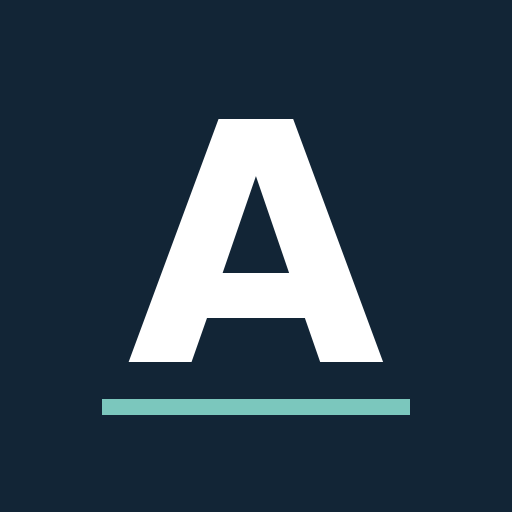
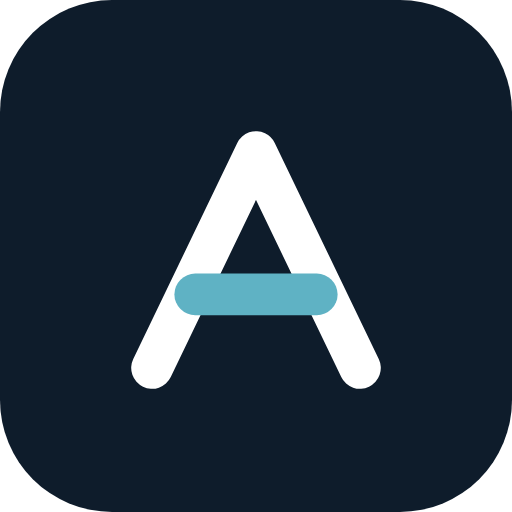
feat(product): intent-first intake, lifecycle homepage with real demo captures, named covenant detail
Intake by objective (Guideline v3.3 §35.10)
- lib/finance/intents.mjs: "what do you need to do?" intents that route to
  flows that already exist (credit/acquiring wizard with product preselected,
  renewal, compare, register existing contract/facility/institution, fees,
  obligations), filtered by role; ?acao= opens the destination form from a
  closed list (no selector taken from the URL).
- Home: a single primary "Começar" opens the intent panel.
- Tests: intents only target existing pages, viewers get no create actions,
  unknown actions do nothing (unit + E2E for manager and viewer).

Commercial site (§35.12)
- Homepage rewritten around the lifecycle: problem, how it works, after
  signature, bank relationship, governance, honest scope table, access.
- Captures come from the real product with fictitious Demo data and carry a
  "Demonstração" tag; scripts/design/capture-marketing.mjs only runs against
  the local Demo (or an explicit confirmation for the hosted Demo).
- Plataforma page describes the five areas; icons and OG image redrawn with
  the new monogram.

Covenant detail
- Contract and people shown by name (references read under the caller's
  JWT), waiver states in Portuguese and dates formatted; test refuses UUID and
  ISO timestamps in what the screen shows.

Claude-Session: https://claude.ai/code/session_01MPPscK4cGFiQ799HjCwixb

diff --git a/index.html b/index.html
@@ -1,9 +1,13 @@
 <!doctype html><html lang="pt-BR"><head><meta charset="utf-8"><meta name="viewport" content="width=device-width, initial-scale=1"><title>Arandu | Procurement financeiro B2B</title><meta name="description" content="Procurement financeiro B2B: crédito empresarial e adquirência, propostas comparáveis, decisão documentada e contratos acompanhados."><link rel="stylesheet" href="/finance/style.css"><link rel="stylesheet" href="/financial-public.css"></head><body class="public"><a class="skip-link" href="#main">Pular para o conteúdo</a><header class="public-header"><div class="wrap nav"><a class="public-brand" href="/"><svg class="brand-mark" viewBox="0 0 32 32" aria-hidden="true"><rect class="brand-mark-bg" width="32" height="32" rx="7"/><path class="brand-mark-a" d="M9.5 23 16 9.5 22.5 23"/><path class="brand-mark-bar" d="M12.2 18.4h7.6"/></svg> Arandu <small>Financial Procurement</small></a><nav aria-label="Navegação principal"><a href="/produto.html">Plataforma</a><a href="/credito.html">Crédito</a><a href="/adquirencia.html">Adquirência</a><a href="/seguranca.html">Segurança</a><a class="nav-cta" href="/login.html">Entrar</a></nav></div></header><div id="main"><main>
-<section class="hero wrap"><div><p class="eyebrow">ARANDU · FINANCIAL PROCUREMENT</p><h1>Contratações financeiras com processo, comparação e decisão documentada.</h1><p class="lead">Estruture demandas de crédito empresarial e adquirência, convide instituições, compare condições em uma base comum e acompanhe contratos em um único espaço de trabalho.</p><div class="actions"><a class="button" href="/login.html">Acessar plataforma <span aria-hidden="true">↗</span></a><a class="button ghost" href="#fluxo">Entender o processo</a></div><p class="fine">O Arandu organiza a contratação. A concessão, as condições e a decisão pertencem às instituições e à sua empresa.</p></div><div class="product-preview" aria-label="Resumo ilustrativo das etapas da plataforma"><div class="preview-head"><span>PROCESSO DE CONTRATAÇÃO</span><span>Crédito empresarial</span></div><ol><li><b>01 · Demanda estruturada</b><small>Produto, prazo e condições desejadas</small></li><li><b>02 · Convites e propostas</b><small>Respostas de instituições registradas por versão</small></li><li><b>03 · Comparação factual</b><small>Condições, cobertura e dados ausentes visíveis</small></li><li><b>04 · Decisão e contrato</b><small>Critérios da empresa e janela de renovação</small></li></ol><p class="preview-note">Esquema do fluxo · sem dados de clientes</p></div></section>
-<section class="section tint" id="produto"><div class="wrap"><p class="eyebrow">UM PROCESSO, DO INÍCIO À RENOVAÇÃO</p><h2>Menos informações dispersas. Mais clareza para contratar.</h2><div class="three"><article class="feature"><span>01</span><h3>Demanda consistente</h3><p>Um formato comum para descrever o que a empresa precisa, com dados do perfil financeiro reutilizáveis.</p></article><article class="feature"><span>02</span><h3>Propostas comparáveis</h3><p>Convites direcionados, versões preservadas e condições lado a lado. Lacunas de informação ficam explícitas.</p></article><article class="feature"><span>03</span><h3>Decisão rastreável</h3><p>A empresa define pesos e registra a justificativa. Contratos e datas de renovação continuam visíveis.</p></article></div></div></section>
-<section class="section wrap" id="fluxo"><div class="split"><div><p class="eyebrow">PARA A EMPRESA COMPRADORA</p><h2>Do pedido à decisão, sem perder o histórico.</h2><p>Abra uma solicitação, convide provedores, acompanhe respostas e compare o que foi efetivamente informado. Registre sua escolha com autoria, critérios e versões das propostas.</p><a class="text-link" href="/produto.html">Conheça o espaço de trabalho →</a></div><div><p class="eyebrow">PARA A INSTITUIÇÃO PROVEDORA</p><h2>Um convite claro. Uma resposta no seu próprio portal.</h2><p>Veja apenas as solicitações atribuídas à sua instituição, o prazo, os dados necessários para cotar e o histórico das suas revisões.</p><a class="text-link" href="/provider/index.html">Acessar portal do provedor →</a></div></div></section>
-<section class="section tint" id="produtos"><div class="wrap"><p class="eyebrow">ESCOPO INICIAL</p><h2>Dois produtos. Fluxos próprios para cada um.</h2><div class="two"><article class="feature"><h3>Crédito empresarial</h3><p>Estruture valor, prazo e condições da demanda. Compare somente campos disponíveis e estimativas matematicamente suportadas.</p><a class="text-link" href="/credito.html">Como funciona crédito →</a></article><article class="feature"><h3>Adquirência</h3><p>Organize necessidades de aceitação de pagamentos e compare taxas, prazos e demais condições recebidas.</p><a class="text-link" href="/adquirencia.html">Como funciona adquirência →</a></article></div></div></section>
-<section class="section wrap"><div class="split"><div><p class="eyebrow">GOVERNANÇA</p><h2>Comparação factual, com a decisão nas mãos da empresa.</h2><p>Pesos são definidos pelo usuário. Empates, baixa cobertura e campos não informados ficam identificados. O Arandu não escolhe a proposta pela empresa.</p></div><div><p class="eyebrow">SEGURANÇA E PRIVACIDADE</p><h2>Informação acessível conforme o papel.</h2><p>O provedor vê suas solicitações e propostas; não vê concorrentes, notas internas nem critérios reservados do comprador. Autenticação, controles de acesso e trilha de eventos fazem parte do fluxo.</p><a class="text-link" href="/seguranca.html">Segurança e privacidade →</a></div></div></section>
-<section class="section dark"><div class="wrap split"><div><p class="eyebrow">ACESSO AO PILOTO</p><h2>Organize sua próxima contratação financeira.</h2><p>O produto está em preparação para um piloto com empresas e provedores selecionados.</p></div><div class="actions"><a class="button light" href="/login.html">Entrar na plataforma</a><a class="button outline" href="/limites.html">Conhecer o escopo do piloto</a></div></div></section>
+<section class="hero hero-product wrap"><div><p class="eyebrow">PROCUREMENT FINANCEIRO B2B</p><h1>Contratações financeiras, do pedido à renovação.</h1><p class="lead">O Arandu organiza como a sua empresa contrata e acompanha crédito empresarial e adquirência: propostas comparáveis, decisão documentada e contratos que avisam antes de vencer — num espaço compartilhado com as instituições, cada uma vendo só o que é dela.</p><div class="actions"><a class="button" href="/login.html">Acessar plataforma <span aria-hidden="true">↗</span></a><a class="button ghost" href="#fluxo">Entender o processo</a></div><p class="fine">O Arandu não concede crédito, não intermedeia e não escolhe por você. Condições são das instituições; a decisão é da sua empresa.</p></div>
+<figure class="shot shot-hero"><img src="/site/workspace.webp" width="1132" height="490" alt="Tela Início do Arandu com a lista Precisa de você: obrigação vencida, decisão de renovação com prazo de aviso prévio, tarefas e rascunho de solicitação." fetchpriority="high"><figcaption>Início: o que precisa de você, por quê e até quando. <span class="shot-tag">Demonstração · empresa e instituições fictícias</span></figcaption></figure></section>
+<section class="section tint" id="problema"><div class="wrap split"><div><p class="eyebrow">O PROBLEMA</p><h2>O financeiro corporativo contrata com e-mail, planilha e memória.</h2></div><ul class="problem-list"><li><strong>Propostas que não se comparam.</strong> Cada instituição responde num formato; taxa, CET, tarifas e garantias chegam incompletas e misturadas.</li><li><strong>Decisões sem registro.</strong> Quem escolheu, com quais critérios e diante de quais versões das propostas fica espalhado em mensagens.</li><li><strong>Contratos que somem depois da assinatura.</strong> A janela de renovação, os covenants e as tarifas cobradas só voltam a ser vistos quando já viraram urgência.</li></ul></div></section>
+<section class="section wrap" id="fluxo"><p class="eyebrow">COMO FUNCIONA</p><h2>Um processo só, com a mesma base para todas as instituições.</h2><ol class="steps"><li><span>01</span><h3>Pedido estruturado</h3><p>Crédito empresarial e adquirência em campos padronizados, com dados do perfil financeiro reutilizados e a origem de cada um.</p></li><li><span>02</span><h3>Convites e propostas</h3><p>Cada instituição responde no próprio portal. Versões e revisões ficam preservadas.</p></li><li><span>03</span><h3>Comparação factual</h3><p>Condições lado a lado, campos não informados à vista e pesos definidos pela sua empresa — sem ranking pronto.</p></li><li><span>04</span><h3>Aprovação e decisão</h3><p>Etapas de aprovação com segregação de funções; a decisão fica registrada com autor, critérios e justificativa.</p></li></ol>
+<figure class="shot"><img src="/site/comparison.webp" width="1132" height="1134" loading="lazy" alt="Comparação factual de duas propostas de crédito: valor, prazo, carência, amortização, taxa, indexador, spread, CET, tarifas e garantias lado a lado, com campos não informados indicados e pesos opcionais definidos pela empresa."><figcaption>Comparação: o maior e o menor valor informados são marcados de forma neutra; nada é chamado de melhor. <span class="shot-tag">Demonstração · empresa e instituições fictícias</span></figcaption></figure></section>
+<section class="section tint" id="ciclo"><div class="wrap split split-media"><div><p class="eyebrow">DEPOIS DA ASSINATURA</p><h2>O contrato continua trabalhando.</h2><ul class="check-list"><li>Marcos de renovação de 180 a 7 dias antes do vencimento, com tarefa e aviso.</li><li>Termos estruturados, aditivos versionados e marcos próprios.</li><li>Tarifa contratada comparada à cobrada, com fonte e revisão humana.</li><li>Covenants e obrigações com medição, prazo e evidência.</li><li>Valor realizado separado de negociado, sempre com metodologia.</li></ul><p><a class="text-link" href="/produto.html">Conheça a plataforma →</a></p></div><figure class="shot"><img src="/site/contract.webp" width="1132" height="632" loading="lazy" alt="Contrato de crédito com linha do tempo de vigência, marcos de 90, 60 e 30 dias, aviso prévio e vencimento, e a próxima ação: janela de renovação aberta com prazo para decidir."><figcaption>Contrato: a próxima ação aparece antes do aviso prévio. <span class="shot-tag">Demonstração · empresa e instituições fictícias</span></figcaption></figure></div></section>
+<section class="section wrap" id="relacionamento"><div class="two"><div><p class="eyebrow">RELACIONAMENTO BANCÁRIO</p><h2>Cada instituição com o histórico que ela tem com você.</h2><p>Contratos, facilities, limites, garantias, tarifas, processos e performance registrados com fonte — a memória institucional não depende de quem saiu da empresa.</p></div><div><p class="eyebrow">PARA A INSTITUIÇÃO</p><h2>Um convite claro. Uma resposta no próprio portal.</h2><p>A instituição vê só as solicitações atribuídas a ela, o prazo e os dados para cotar. Nunca vê concorrentes, notas internas ou critérios reservados do comprador.</p><p><a class="text-link" href="/provider/index.html">Acessar portal do provedor →</a></p></div></div></section>
+<section class="section tint" id="governanca"><div class="wrap two"><div><p class="eyebrow">GOVERNANÇA</p><h2>A decisão é da sua empresa. Sempre.</h2><p>Pesos são definidos por quem decide. Empates, baixa cobertura e campos não informados ficam identificados. Quem pede não aprova a própria solicitação.</p><p><a class="text-link" href="/limites.html">O que o Arandu não faz →</a></p></div><div><p class="eyebrow">SEGURANÇA E PRIVACIDADE</p><h2>Informação acessível conforme o papel.</h2><p>Isolamento por empresa e por entidade legal, autenticação, MFA para operação da plataforma e trilha de eventos fazem parte do fluxo.</p><p><a class="text-link" href="/seguranca.html">Segurança e privacidade →</a></p></div></div></section>
+<section class="section wrap" id="escopo"><p class="eyebrow">ESCOPO DISPONÍVEL</p><h2>O que existe hoje, sem exagero.</h2><table class="scope"><thead><tr><th scope="col">Capacidade</th><th scope="col">Situação</th></tr></thead><tbody><tr><td>Solicitações, propostas, comparação, aprovação e decisão — crédito empresarial e adquirência</td><td>No produto, em preparação para piloto</td></tr><tr><td>Contratos, renovação, portfólio de dívida e limites, tarifas, covenants, valor</td><td>No produto, em preparação para piloto</td></tr><tr><td>Leitura de documentos com confirmação humana</td><td>Base pronta; sem modelo externo de IA configurado</td></tr><tr><td>Conexões bancárias, Open Finance e ERP</td><td>Não disponível</td></tr><tr><td>Benchmark de mercado</td><td>Não oferecido</td></tr></tbody></table><p class="fine">O Arandu não alega certificação, SLA ou prontidão de produção sem evidência. <a class="text-link" href="/limites.html">Limites do produto →</a></p></section>
+<section class="section dark" id="acesso"><div class="wrap split"><div><p class="eyebrow">ACESSO AO PILOTO</p><h2>Organize sua próxima contratação financeira.</h2><p>O acesso está sendo preparado para um piloto com empresas e instituições convidadas.</p></div><div class="actions"><a class="button light" href="/login.html">Entrar na plataforma</a><a class="button outline" href="/limites.html">Conhecer o escopo do piloto</a></div></div></section>
 <section class="section wrap" id="faq"><p class="eyebrow">PERGUNTAS FREQUENTES</p><h2>Antes de começar</h2><div class="faq"><details><summary>O Arandu concede crédito ou garante aprovação?</summary><p>Não. Instituições financeiras respondem às solicitações e decidem suas próprias condições e aprovações.</p></details><details><summary>O Arandu recomenda uma proposta?</summary><p>Não. A comparação apresenta dados recebidos; os pesos e a decisão são definidos e registrados pela empresa.</p></details><details><summary>Quais produtos estão disponíveis?</summary><p>O escopo inicial contempla crédito empresarial e adquirência.</p></details><details><summary>Os provedores veem as propostas dos concorrentes?</summary><p>Não. Cada instituição acessa somente suas solicitações e propostas atribuídas.</p></details><details><summary>O produto já está aberto a todas as empresas?</summary><p>O acesso está sendo preparado para um piloto. A disponibilidade depende da configuração do ambiente e dos convites.</p></details></div><p><a class="text-link" href="/limites.html">Leia os limites do produto →</a></p></section>
 </main></div><footer class="public-footer"><div class="wrap"><strong>Arandu · Financial Procurement</strong><p>Procurement financeiro B2B. O Arandu não concede crédito nem decide pela empresa.</p><nav aria-label="Links institucionais"><a href="/limites.html">Limites</a><a href="/seguranca.html">Segurança</a><a href="/provider/index.html">Portal do provedor</a></nav></div></footer></body></html>

diff --git a/produto.html b/produto.html
@@ -1,1 +1,8 @@
-<!doctype html><html lang="pt-BR"><head><meta charset="utf-8"><meta name="viewport" content="width=device-width, initial-scale=1"><title>Plataforma | Arandu</title><meta name="description" content="Arandu: plataforma B2B para estruturar demandas, comparar propostas financeiras e documentar decisões."><link rel="stylesheet" href="/finance/style.css"><link rel="stylesheet" href="/financial-public.css"></head><body class="public"><a class="skip-link" href="#main">Pular para o conteúdo</a><header class="public-header"><div class="wrap nav"><a class="public-brand" href="/"><svg class="brand-mark" viewBox="0 0 32 32" aria-hidden="true"><rect class="brand-mark-bg" width="32" height="32" rx="7"/><path class="brand-mark-a" d="M9.5 23 16 9.5 22.5 23"/><path class="brand-mark-bar" d="M12.2 18.4h7.6"/></svg> Arandu <small>Financial Procurement</small></a><nav aria-label="Navegação principal"><a href="/produto.html">Plataforma</a><a href="/credito.html">Crédito</a><a href="/adquirencia.html">Adquirência</a><a href="/seguranca.html">Segurança</a><a class="nav-cta" href="/login.html">Entrar</a></nav></div></header><div id="main"><main class="section wrap"><p class="eyebrow">PLATAFORMA</p><h1>Um espaço de trabalho para todo o processo.</h1><p class="lead">Dados da organização, solicitações, provedores, propostas, comparação, decisão e contratos ficam ligados ao mesmo processo.</p><div class="three"><article class="feature"><h2>1. Prepare</h2><p>Cadastre a organização e o perfil financeiro, depois abra uma solicitação de crédito ou adquirência.</p></article><article class="feature"><h2>2. Colete</h2><p>Convide instituições e acompanhe respostas e revisões sem perder versões anteriores.</p></article><article class="feature"><h2>3. Decida</h2><p>Compare campos recebidos, escolha critérios, registre a decisão e acompanhe a vigência do contrato.</p></article></div><p><a class="button" href="/login.html">Entrar no workspace</a></p></main></div><footer class="public-footer"><div class="wrap"><strong>Arandu · Financial Procurement</strong><p>Procurement financeiro B2B. O Arandu não é o concedente nem decide pela empresa.</p><nav aria-label="Links institucionais"><a href="/limites.html">Limites</a><a href="/seguranca.html">Segurança</a><a href="/provider/index.html">Portal do provedor</a></nav></div></footer></body></html>
+<!doctype html><html lang="pt-BR"><head><meta charset="utf-8"><meta name="viewport" content="width=device-width, initial-scale=1"><title>Plataforma | Arandu</title><meta name="description" content="Arandu: plataforma B2B para estruturar demandas, comparar propostas financeiras e documentar decisões."><link rel="stylesheet" href="/finance/style.css"><link rel="stylesheet" href="/financial-public.css"></head><body class="public"><a class="skip-link" href="#main">Pular para o conteúdo</a><header class="public-header"><div class="wrap nav"><a class="public-brand" href="/"><svg class="brand-mark" viewBox="0 0 32 32" aria-hidden="true"><rect class="brand-mark-bg" width="32" height="32" rx="7"/><path class="brand-mark-a" d="M9.5 23 16 9.5 22.5 23"/><path class="brand-mark-bar" d="M12.2 18.4h7.6"/></svg> Arandu <small>Financial Procurement</small></a><nav aria-label="Navegação principal"><a href="/produto.html">Plataforma</a><a href="/credito.html">Crédito</a><a href="/adquirencia.html">Adquirência</a><a href="/seguranca.html">Segurança</a><a class="nav-cta" href="/login.html">Entrar</a></nav></div></header><div id="main"><main class="section wrap"><p class="eyebrow">PLATAFORMA</p><h1>Um espaço de trabalho para todo o processo.</h1><p class="lead">O Arandu se organiza pelo que a equipe financeira precisa fazer — não pelos módulos do sistema. Cinco áreas, com as mesmas pessoas, objetos e histórico.</p>
+<ol class="areas"><li><h2>Meu trabalho</h2><p>Pendências, aprovações, tarefas e prazos em ordem de urgência, cada uma com o motivo e a próxima ação.</p></li>
+<li><h2>Contratações</h2><p>Solicitações de crédito empresarial e adquirência, convites, propostas versionadas, comparação factual, aprovação, decisão e implantação.</p></li>
+<li><h2>Portfólio financeiro</h2><p>Contratos e renovações, dívida e limites, garantias, covenants e obrigações, tarifas bancárias, spend, valor realizado e oportunidades.</p></li>
+<li><h2>Relacionamentos</h2><p>Instituições com contatos, histórico, qualificação e performance registrados com fonte.</p></li>
+<li><h2>Governança</h2><p>Perfil financeiro com a origem de cada dado, entidades legais, pessoas e papéis, políticas de aprovação, integrações e retenção.</p></li></ol>
+<p class="fine">Escopo atual em preparação para piloto. O Arandu não é o concedente nem decide pela empresa.</p>
+<p><a class="button" href="/login.html">Entrar no workspace</a></p></main></div><footer class="public-footer"><div class="wrap"><strong>Arandu · Financial Procurement</strong><p>Procurement financeiro B2B. O Arandu não é o concedente nem decide pela empresa.</p><nav aria-label="Links institucionais"><a href="/limites.html">Limites</a><a href="/seguranca.html">Segurança</a><a href="/provider/index.html">Portal do provedor</a></nav></div></footer></body></html>

diff --git a/tests/e2e/finance-procurement.spec.js b/tests/e2e/finance-procurement.spec.js
@@ -50,7 +50,7 @@ function overview(extra = {}) {
   };
 }
 /** Sessão simulada: responde as rotas que a interface usa. */
-async function mockSession(page, { organizations = [{ id: ORG, kind: 'BUYER', legal_name: 'Empresa de teste' }], data = overview(), editor = {}, onSearch = null, onDocuments = null } = {}) {
+async function mockSession(page, { organizations = [{ id: ORG, kind: 'BUYER', legal_name: 'Empresa de teste' }], data = overview(), editor = {}, onSearch = null, onDocuments = null, viewerRole = 'finance_manager' } = {}) {
   const calls = [];
   await page.route('**/api/finance/**', (route) => {
     const request = route.request();
@@ -60,7 +60,7 @@ async function mockSession(page, { organizations = [{ id: ORG, kind: 'BUYER', le
     const json = (body, status = 200) => route.fulfill({ status, contentType: 'application/json', body: JSON.stringify(body) });
     if (path === 'organizations') return json({ ok: true, rows: organizations });
     if (path === 'overview') return json(data);
-    if (path === 'members') return json({ ok: true, rows: [{ user_id: 'u1', role: 'finance_manager', display_name: 'Paula Nogueira', title: 'Gerente Financeira' }, { user_id: 'u2', role: 'analyst', display_name: 'Rui Tavares', title: 'Analista de Crédito' }], viewer_id: 'u1' });
+    if (path === 'members') return json({ ok: true, rows: [{ user_id: 'u1', role: viewerRole, display_name: 'Paula Nogueira', title: 'Gerente Financeira' }, { user_id: 'u2', role: 'analyst', display_name: 'Rui Tavares', title: 'Analista de Crédito' }], viewer_id: 'u1' });
     if (path.startsWith('private-documents') || path.startsWith('ops/')) return onDocuments ? onDocuments(path, request, json) : json({ ok: true, rows: [] });
     if (path === 'search') { onSearch?.(url); return json({ ok: true, rows: [{ kind: 'rfq', id: RFQ, title: 'Crédito expansão', detail: 'comparing', href: `/finance/rfq.html?id=${RFQ}` }] }); }
     if (path === 'rfq-editor' && request.method() === 'GET') return json({ ok: true, draft: editor.draft || null });
@@ -247,6 +247,38 @@ test('o assistente avança por etapas, valida em linha e salva o rascunho no ser
   await expect(page.getByRole('button', { name: 'Voltar' })).toBeVisible();
   const stored = await page.evaluate(() => Object.keys(localStorage));
   expect(stored, 'rascunho real nunca vai ao navegador').toEqual([]);
+});
+
+test('entrada por objetivo leva ao fluxo existente e só oferece o que o papel permite', async ({ page }) => {
+  await mockSession(page);
+  await page.goto('/finance/dashboard.html');
+  await page.getByRole('button', { name: 'Começar' }).click();
+  const panel = page.getByRole('dialog', { name: 'O que você precisa fazer?' });
+  await expect(panel.getByRole('heading', { name: 'Contratar' })).toBeVisible();
+  await expect(panel.getByRole('link', { name: /Registrar um contrato existente/ })).toHaveAttribute('href', /contracts\.html\?acao=registrar-contrato$/);
+  await panel.getByRole('link', { name: /Contratar crédito/ }).click();
+  await expect(page).toHaveURL(/new-rfq\.html\?product=credit$/);
+  await expect(page.locator('#product-credit')).toBeChecked();
+  // Ação pedida pela URL abre o formulário do fluxo de destino e sai da URL.
+  await page.goto('/finance/contracts.html?acao=registrar-contrato');
+  await expect(page.getByRole('dialog', { name: 'Registrar contrato existente' })).toBeVisible();
+  await expect(page).toHaveURL(/contracts\.html$/);
+  // Valor fora da lista fechada não aciona nada.
+  await page.goto('/finance/contracts.html?acao=logout');
+  await expect(page.getByRole('dialog')).toHaveCount(0);
+  expect(await page.evaluate(() => document.documentElement.scrollWidth - window.innerWidth)).toBeLessThanOrEqual(1);
+});
+
+test('leitor não recebe ações de criação na entrada por objetivo', async ({ page }) => {
+  await mockSession(page, { viewerRole: 'viewer' });
+  await page.goto('/finance/dashboard.html');
+  await page.getByRole('button', { name: 'Começar' }).click();
+  const panel = page.getByRole('dialog', { name: 'O que você precisa fazer?' });
+  await expect(panel.getByRole('link', { name: /Comparar propostas recebidas/ })).toBeVisible();
+  for (const name of [/Contratar crédito/, /Avaliar adquirência/, /Registrar um contrato existente/, /Cadastrar uma instituição/, /Registrar tarifa/]) await expect(panel.getByRole('link', { name })).toHaveCount(0);
+  // Sem permissão, a ação pedida pela URL não encontra botão e nada abre.
+  await page.goto('/finance/contracts.html?acao=registrar-contrato');
+  await expect(page.getByRole('dialog')).toHaveCount(0);
 });
 
 test('conflito de rascunho entre abas é explicado e para de salvar', async ({ page }) => {

diff --git a/financial-public.css b/financial-public.css
@@ -47,3 +47,35 @@ body.public{background:#fff;color:var(--navy);font-family:Inter,system-ui,-apple
 @media(max-width:900px){.public-brand small{display:none}.hero,.auth-grid{grid-template-columns:1fr}.hero{min-height:0}.product-preview{max-width:650px}}
 @media(max-width:700px){.public-header .nav{align-items:flex-start;flex-direction:column;padding-top:.8rem;padding-bottom:.8rem;gap:.5rem}.public-header nav{width:100%;overflow-x:auto;white-space:nowrap;padding-bottom:.2rem}.nav-cta{margin-left:auto}.three,.two,.split{grid-template-columns:1fr}.hero{padding-top:3rem;padding-bottom:3rem}.public h1{font-size:2.5rem}.auth-grid{padding-top:3rem;padding-bottom:4rem}}
 @media(prefers-reduced-motion:reduce){*,*::before,*::after{scroll-behavior:auto!important;animation-duration:.01ms!important}}
+/* Homepage v3.3: produto real em moldura, problema em lista, passos em linha e escopo honesto. */
+.hero-product{grid-template-columns:1fr;min-height:0;padding-top:4.5rem;padding-bottom:4.5rem;gap:2.5rem}
+.hero-product h1{max-width:20ch}
+.hero-product .lead{max-width:62ch}
+.shot-hero{max-width:1100px}
+.shot{margin:0;display:grid;gap:.6rem}
+.shot img{width:100%;height:auto;border:1px solid var(--line);border-radius:10px;background:#fff;box-shadow:0 18px 40px #0e1c2b14}
+.shot figcaption{font-size:.8rem;color:var(--muted);display:flex;flex-wrap:wrap;gap:.4rem .8rem;align-items:center}
+.shot-tag{display:inline-block;font-size:.7rem;font-weight:700;letter-spacing:.04em;color:#8f5200;background:#fff5e3;border:1px solid #f0d29a;border-radius:999px;padding:.1rem .55rem}
+#fluxo .shot{margin-top:2.5rem;max-width:880px}
+.problem-list,.check-list{list-style:none;margin:0;padding:0;display:grid;gap:1.1rem}
+.problem-list li{padding-left:1rem;border-left:2px solid var(--teal);color:var(--muted)}
+.problem-list strong{display:block;color:var(--navy);margin-bottom:.2rem}
+.check-list li{position:relative;padding-left:1.4rem;color:var(--navy)}
+.check-list li::before{content:"";position:absolute;left:0;top:.62em;width:.6rem;height:2px;background:var(--teal)}
+.steps{list-style:none;margin:1.5rem 0 0;padding:0;display:grid;grid-template-columns:repeat(4,minmax(0,1fr));gap:1.4rem;border-top:1px solid var(--line)}
+.steps li{padding-top:1.2rem}
+.steps span{font-weight:800;font-size:.75rem;color:var(--teal);letter-spacing:.08em}
+.steps p{color:var(--muted);font-size:.95rem}
+.split-media{align-items:center;grid-template-columns:.8fr 1.2fr}
+.scope{width:100%;max-width:880px;border-collapse:collapse;margin-top:1rem;font-size:.95rem}
+.scope th,.scope td{text-align:left;padding:.8rem .9rem;border-bottom:1px solid var(--line);vertical-align:top}
+.scope th{font-size:.75rem;letter-spacing:.06em;text-transform:uppercase;color:var(--muted)}
+.scope td:last-child{color:var(--muted);width:38%}
+@media(max-width:900px){.steps{grid-template-columns:repeat(2,minmax(0,1fr))}}
+@media(max-width:700px){.steps{grid-template-columns:1fr}.scope td:last-child{width:auto}.split-media{grid-template-columns:1fr}}
+.areas{list-style:none;counter-reset:area;margin:2rem 0;padding:0;display:grid;gap:0;border-top:1px solid var(--line);max-width:900px}
+.areas li{counter-increment:area;display:grid;grid-template-columns:3rem 14rem 1fr;gap:1rem;align-items:baseline;padding:1.1rem 0;border-bottom:1px solid var(--line)}
+.areas li::before{content:counter(area,decimal-leading-zero);font-weight:800;font-size:.75rem;color:var(--teal);letter-spacing:.08em}
+.areas h2{font-family:inherit;font-size:1.05rem;margin:0;max-width:none;letter-spacing:0}
+.areas p{margin:0;color:var(--muted)}
+@media(max-width:700px){.areas li{grid-template-columns:2.2rem 1fr}.areas p{grid-column:2}}

diff --git a/finance/src/views/intake.js b/finance/src/views/intake.js
@@ -1,0 +1,29 @@
+// Entrada por objetivo (Guideline v3.3 §35.10): "O que você precisa fazer?"
+// leva ao fluxo existente certo. A lista vem de lib/finance/intents.mjs e só
+// mostra o que o papel de quem usa permite executar.
+import { el, icon } from '../core.js';
+import { button, drawer } from '../ui.js';
+import { intentsFor } from '../../../lib/finance/intents.mjs';
+
+export function startButton(ctx) {
+  const intents = intentsFor((permission) => ctx.can(permission));
+  if (!intents.length) return null;
+  return button('Começar', { variant: 'primary', iconName: 'plus', attrs: { id: 'start-intent', 'aria-haspopup': 'dialog' }, onClick: () => openIntents(ctx, intents) });
+}
+
+function openIntents(ctx, intents) {
+  const body = el('div', { class: 'intent-groups' });
+  for (const group of [...new Set(intents.map((intent) => intent.group))]) {
+    const id = `intent-group-${group.normalize('NFD').replace(/[^a-z]/gi, '').toLowerCase()}`;
+    body.append(el('section', { class: 'intent-group', 'aria-labelledby': id }, [
+      el('h3', { class: 'intent-group-title', id, text: group }),
+      el('ul', { role: 'list', class: 'intent-list' }, intents.filter((intent) => intent.group === group).map((intent) => el('li', {},
+        el('a', { class: 'intent-link', href: ctx.href(intent.path), dataset: { intent: intent.key } }, [
+          el('span', { class: 'intent-icon' }, icon(intent.icon, { size: 18 })),
+          el('span', { class: 'intent-text' }, [el('span', { class: 'intent-label', text: intent.label }), el('span', { class: 'intent-detail', text: intent.detail })]),
+          icon('chevronRight', { size: 16 })
+        ]))))
+    ]));
+  }
+  drawer({ title: 'O que você precisa fazer?', subtitle: 'Cada caminho leva ao fluxo certo e reaproveita o que a empresa já cadastrou.', body, className: 'intent-drawer' });
+}

diff --git a/finance/style.css b/finance/style.css
@@ -502,6 +502,18 @@ a.mini-title:hover{color:var(--accent-text)}
 .exec-line{overflow-wrap:anywhere}
 @media (max-width:759px){.exec-filters{grid-template-columns:1fr}}
 
+/* Entrada por objetivo (painel "O que você precisa fazer?"). */
+.intent-groups{display:grid;gap:var(--s5)}
+.intent-group-title{font-size:11px;font-weight:650;letter-spacing:.06em;text-transform:uppercase;color:var(--text-muted);margin-bottom:var(--s2)}
+.intent-list{list-style:none;margin:0;padding:0;display:grid;gap:var(--s2)}
+.intent-link{display:flex;align-items:center;gap:var(--s3);padding:var(--s3);border:1px solid var(--border);border-radius:var(--r-md);color:var(--text);text-decoration:none;background:var(--surface)}
+.intent-link:hover{border-color:var(--petrol-line);background:var(--petrol-weak)}
+.intent-link:focus-visible{outline:none;box-shadow:var(--focus-ring)}
+.intent-icon{display:grid;place-items:center;width:34px;height:34px;border-radius:var(--r-md);background:var(--petrol-weak);color:var(--accent-text);flex:none}
+.intent-text{display:grid;flex:1;min-width:0;line-height:1.3}
+.intent-label{font-weight:600}
+.intent-detail{font-size:var(--fs-sm);color:var(--text-muted)}
+
 /* ---------------------------------------------------------------- RFQ */
 .lifecycle{list-style:none;margin:0 0 var(--s5);padding:0;display:flex;gap:4px;overflow-x:auto}
 .lifecycle-step{flex:1 1 0;min-width:88px;display:flex;align-items:center;gap:6px;padding:8px 10px;border-radius:var(--r-md);background:var(--surface);border:1px solid var(--border);font-size:var(--fs-sm);color:var(--text-muted)}

diff --git a/finance/app.js b/finance/app.js
@@ -15,6 +15,7 @@ import { el, icon, ROLE_LABELS, needsRenewalAttention } from './src/core.js';
 import { emptyState, linkButton, errorState, loading, toast } from './src/ui.js';
 import { renderSidebar, renderTopbar, renderMobileNav, renderDemoBanner, installCommandCenter, installNotificationCenter } from './src/shell.js';
 import { locate } from '../lib/finance/navigation.mjs';
+import { requestedAction } from '../lib/finance/intents.mjs';
 /* global __ARANDU_DEMO__ */
 const DEMO_BUILD = typeof __ARANDU_DEMO__ !== 'undefined' && __ARANDU_DEMO__ === true;
 
@@ -338,6 +339,18 @@ async function render({ refresh = false, rebuildShell = false } = {}) {
   root.setAttribute('aria-busy', 'false');
   workspace?.afterRender(ctx, { failure });
   focusDeepLink();
+  openRequestedAction();
+}
+
+// Intake por objetivo: `?acao=` abre o formulário do fluxo de destino uma vez
+// (lista fechada em lib/finance/intents.mjs; sem botão — sem permissão — nada acontece).
+function openRequestedAction() {
+  const action = requestedAction(location.search);
+  if (!action) return;
+  const url = new URL(location.href);
+  url.searchParams.delete('acao');
+  history.replaceState(null, '', url.pathname + url.search + url.hash);
+  document.querySelector(`[data-intent="${action}"]`)?.click();
 }
 
 // Link direto para um item (busca, notificação, e-mail): leva o foco até ele,

diff --git a/finance/src/views/dashboard.js b/finance/src/views/dashboard.js
@@ -4,6 +4,7 @@ import { el, icon, daysUntil, relativeDays, formatDate, formatDateTime, productL
 import { card, pill, linkButton, emptyState, person, progress, button, toast } from '../ui.js';
 import { memberName, currentStep, approvalSummaryLine, eventTitle } from './shared.js';
 import { loadEntities, entitySummaryCard } from './entities.js';
+import { startButton } from './intake.js';
 
 const PIPELINE = [['draft', 'Rascunho'], ['open', 'Aberta'], ['collecting', 'Em coleta'], ['comparing', 'Em avaliação'], ['decided', 'Decidida'], ['contracted', 'Contratada']];
 
@@ -114,7 +115,8 @@ export async function dashboard(ctx) {
   ctx.header({
     title: 'Painel',
     subtitle: `${greeting(ctx.viewer?.name)} · ${ctx.organization.legal_name}`,
-    actions: ctx.can('create_rfq') ? [linkButton('Nova solicitação', ctx.href('/finance/new-rfq.html'), { variant: 'primary', iconName: 'plus' })] : []
+    // Entrada por objetivo: um único primário; cada intenção leva ao fluxo existente.
+    actions: [startButton(ctx)].filter(Boolean)
   });
   const approvals = await ctx.loadApprovals();
   const items = actionItems(ctx, approvals);

diff --git a/finance/src/views/company.js b/finance/src/views/company.js
@@ -233,7 +233,7 @@ export async function providers(ctx) {
   const relationshipEnabled = (await loadEntities(ctx)).available;
   if (relationshipEnabled) await need('relationship');
   const manage = ctx.can('create_rfq');
-  const add = manage ? button('Cadastrar provedor', { variant: 'primary', iconName: 'plus', onClick: () => providerDrawer(ctx) }) : null;
+  const add = manage ? button('Cadastrar provedor', { variant: 'primary', iconName: 'plus', attrs: { 'data-intent': 'cadastrar-instituicao' }, onClick: () => providerDrawer(ctx) }) : null;
   ctx.header({ title: 'Provedores', subtitle: 'Bancos, fintechs e adquirentes com quem a empresa cota. É um cadastro da empresa, não uma atestação.', actions: add ? [add] : [] });
   if (!rows.length) return emptyState({ title: 'Nenhum provedor cadastrado', text: 'Cadastre ao menos três instituições para ter o que comparar.', iconName: 'building', action: add ? button('Cadastrar o primeiro provedor', { variant: 'primary', iconName: 'plus', onClick: () => providerDrawer(ctx) }) : null });
   const participation = new Map();

diff --git a/finance/src/views/portfolio.js b/finance/src/views/portfolio.js
@@ -63,7 +63,7 @@ export async function portfolio(ctx) {
   const entities = await loadEntities(ctx);
   const manage = ctx.can('edit_profile');
   const context = entityContextSelect(entities, { onChange: () => ctx.rerender() });
-  const add = manage ? button('Registrar facility', { variant: 'primary', iconName: 'plus', onClick: () => facilityForm(ctx, entities) }) : null;
+  const add = manage ? button('Registrar facility', { variant: 'primary', iconName: 'plus', attrs: { 'data-intent': 'registrar-facility' }, onClick: () => facilityForm(ctx, entities) }) : null;
   const addGuarantee = manage ? button('Registrar garantia', { iconName: 'shield', onClick: () => guaranteeForm(ctx, entities, null) }) : null;
   ctx.header({ title: 'Dívida, limites e garantias', subtitle: 'Visão de procurement e relacionamento, por moeda. Dados registrados pela empresa, com origem e data.', actions: [context, addGuarantee, add].filter(Boolean) });
   const root = el('div', { class: 'stack portfolio' }, loading('Carregando portfólio…'));

diff --git a/finance/src/views/rfqs.js b/finance/src/views/rfqs.js
@@ -176,6 +176,8 @@ export async function newRfq(ctx) {
     set value(id) { for (const input of productCards.querySelectorAll('input')) input.checked = input.value === id; },
     addEventListener: (type, handler) => productCards.addEventListener(type, handler)
   };
+  // Intake por objetivo: "Contratar crédito"/"Avaliar adquirência" chegam com o produto escolhido.
+  if (PRODUCT_IDS.includes(params.get('product'))) productSelect.value = params.get('product');
   const title = el('input', { name: 'title', type: 'text', maxlength: '200', autocomplete: 'off', placeholder: 'Ex.: Capital de giro — R$ 3 milhões' });
   const titleField = field({ label: 'Título da solicitação', control: title, required: true, hint: 'Os provedores veem este título. Seja específico e evite dados sigilosos.' });
   const description = el('textarea', { name: 'description', rows: '3', maxlength: '4000', placeholder: 'Contexto que ajuda o provedor a ofertar melhor.' });

diff --git a/finance/src/views/contract-center.js b/finance/src/views/contract-center.js
@@ -74,7 +74,7 @@ function termsEditor(category, initial = {}) {
 /** Botão + formulário de contrato existente (carteira fora de RFQ). */
 export function importContractButton(ctx, entities) {
   if (!ctx.can('create_rfq')) return null;
-  return button('Registrar contrato existente', { iconName: 'plus', onClick: () => {
+  return button('Registrar contrato existente', { iconName: 'plus', attrs: { 'data-intent': 'registrar-contrato' }, onClick: () => {
     const form = el('form', { class: 'stack', id: 'contract-import-form', novalidate: true });
     const category = el('select', { name: 'product' });
     for (const [value, label] of Object.entries(CONTRACT_CATEGORIES)) category.add(new Option(label, value));
